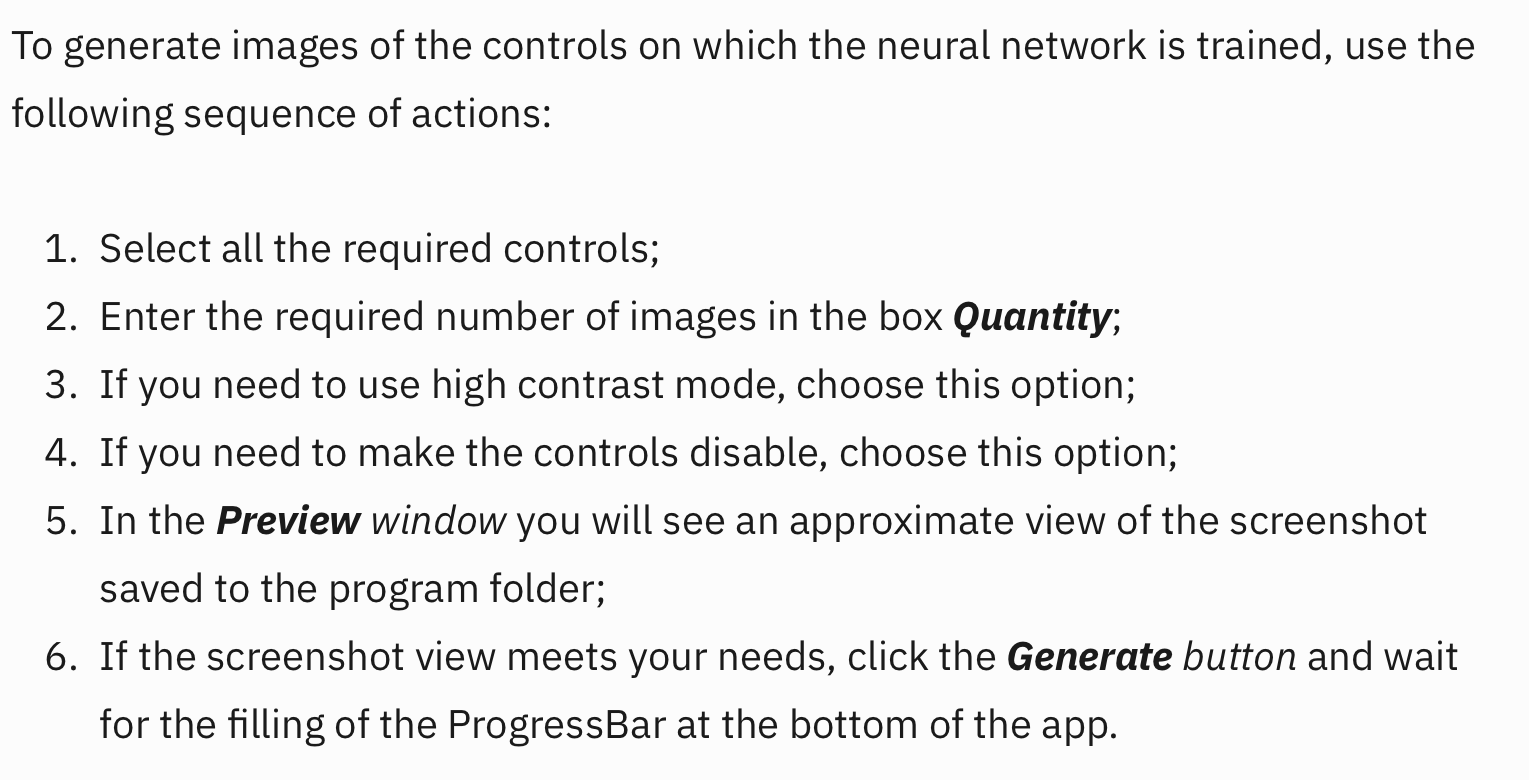
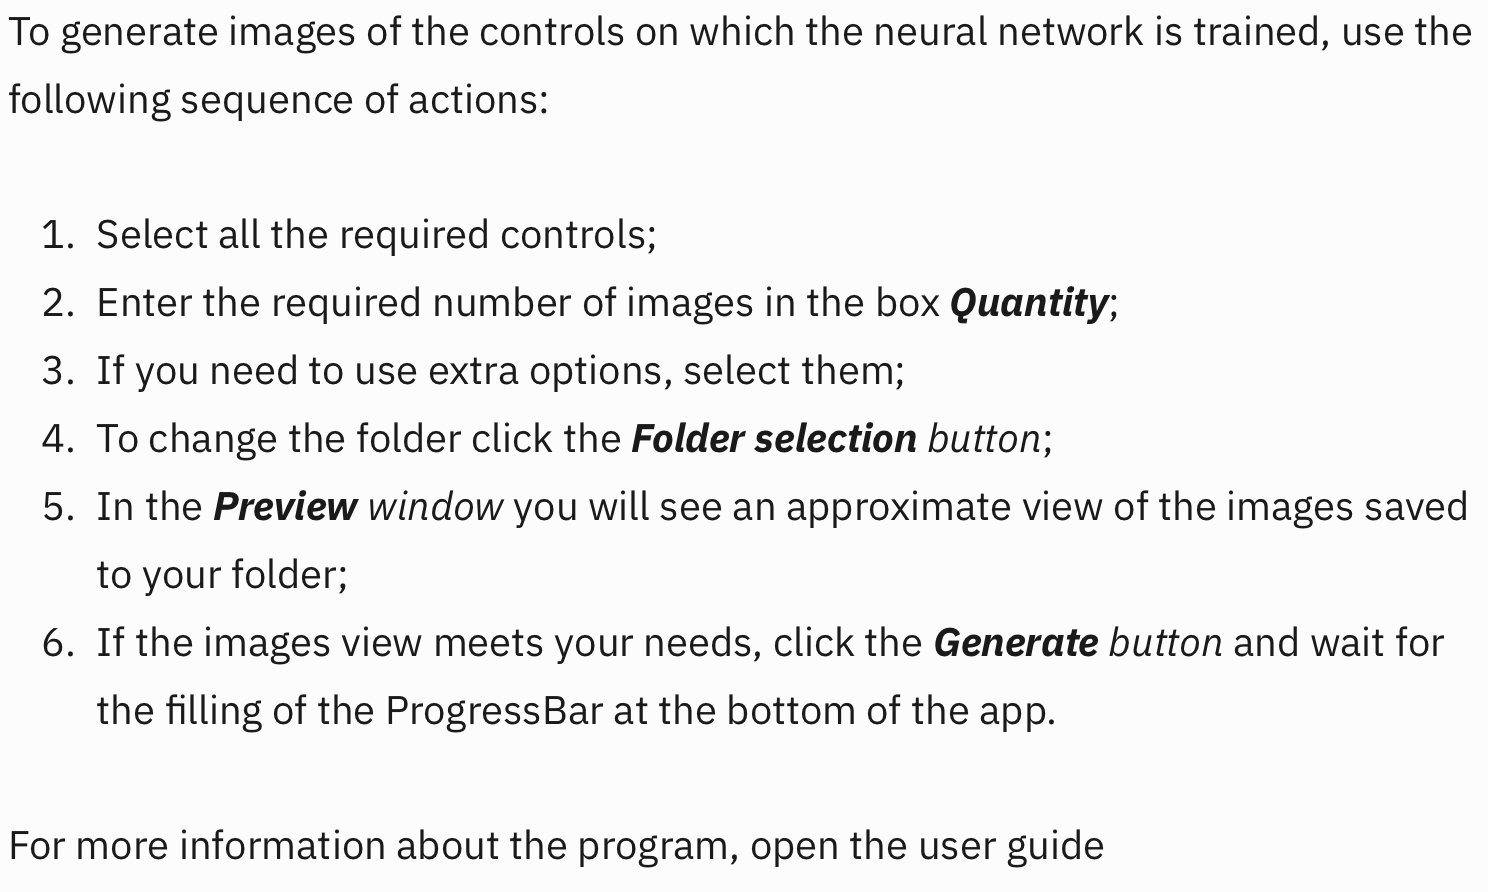
feat: add saving folder, new image for manual

diff --git a/src/main/java/UI/ControllerUI.java b/src/main/java/UI/ControllerUI.java
@@ -17,11 +17,10 @@ import javafx.scene.layout.FlowPane;
 import javafx.stage.DirectoryChooser;
 import javafx.stage.Modality;
 import javafx.stage.Stage;
-
-import java.io.File;
-import java.io.IOException;
+import java.io.*;
 import java.util.ArrayList;
 import java.util.Objects;
+import java.util.Scanner;
 
 /**
  * This class controls all actions, which can happen in main window of the application.
@@ -83,7 +82,7 @@ public class ControllerUI {
     @FXML
     private FlowPane previewField = new FlowPane();
 
-    public static String mainFolder = "";
+    private String mainFolder = "";
 
 
     /**
@@ -95,6 +94,7 @@ public class ControllerUI {
         setGenerateButtonAction();
         showManual();
         selectFolder();
+        checkSavingFolder();
         setControlsActions();
     }
 
@@ -124,10 +124,22 @@ public class ControllerUI {
         });
     }
 
+    /**
+     * Method looking for a folder for saving images.
+     */
+    private void checkSavingFolder() {
+        try(Scanner scanner = new Scanner(new File("settings\\folderForSaving.txt"))) {
+            mainFolder = scanner.nextLine();
+        }
+        catch (FileNotFoundException ex) {
+            System.err.println("Can't find file folderForSaving.txt");
+        }
+
+    }
 
     /**
      * Method attaches EventHandler to the folderSelectionButton.
-     * EventHandler offers to choose folder for images.
+     * EventHandler offers to choose folder for images and save path to this folder.
      * If folder wasn't chosen, alert message shows.
      */
     private void selectFolder() {
@@ -135,13 +147,23 @@ public class ControllerUI {
         folderSelectionButton.setOnAction(event -> {
             try {
                 final DirectoryChooser directoryChooser = new DirectoryChooser();
+                if (!mainFolder.equals("")) {
+                    directoryChooser.setInitialDirectory(new File(mainFolder).getAbsoluteFile());
+                }
 
                 Stage stage = (Stage) anchorPane.getScene().getWindow();
-                File file = directoryChooser.showDialog(stage);
+                File folder = directoryChooser.showDialog(stage);
 
-                if (file != null) {
-                    mainFolder = file.getAbsolutePath();
-                    showAlert("Selected folder: " + file.getAbsolutePath());
+                if (folder != null) {
+                    mainFolder = folder.getAbsolutePath();
+                    new File("settings").mkdir();
+                    try(FileWriter fileWriter = new FileWriter("settings\\folderForSaving.txt")) {
+                        fileWriter.write(mainFolder);
+                    }
+                    catch (IOException ex) {
+                        System.err.println("Can't open or create file folderForSaving.txt");
+                    }
+                    showAlert("Selected folder: " + folder.getAbsolutePath());
                 } else {
                     showAlert("Path is empty.\n" +
                             "Please enter the correct path to the folder");
@@ -304,11 +326,10 @@ public class ControllerUI {
                 return;
             }
 
-            if ("".equals(mainFolder)) {
+            if (mainFolder.equals("")) {
                 showAlert("Please, choose a folder for saving controls.");
                 return;
             }
-
             GeneratorRetranslator generator = new GeneratorRetranslator();
             generator.startGenerator(controlsList, inputQuantity, hasHighContrast.isSelected(),
                     isDisabled.isSelected(), hasNoise.isSelected(), !isUnsorted.isSelected(), true);
